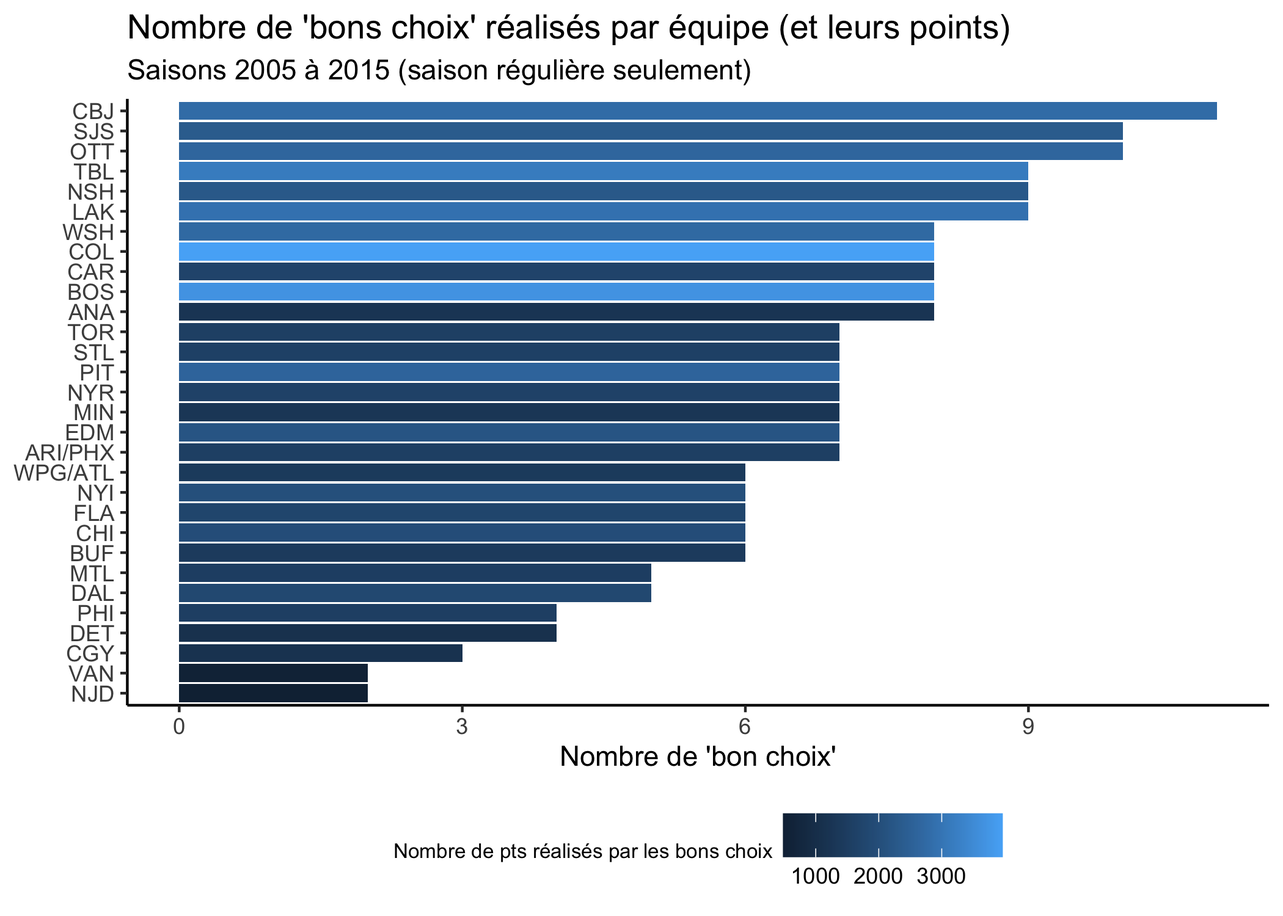
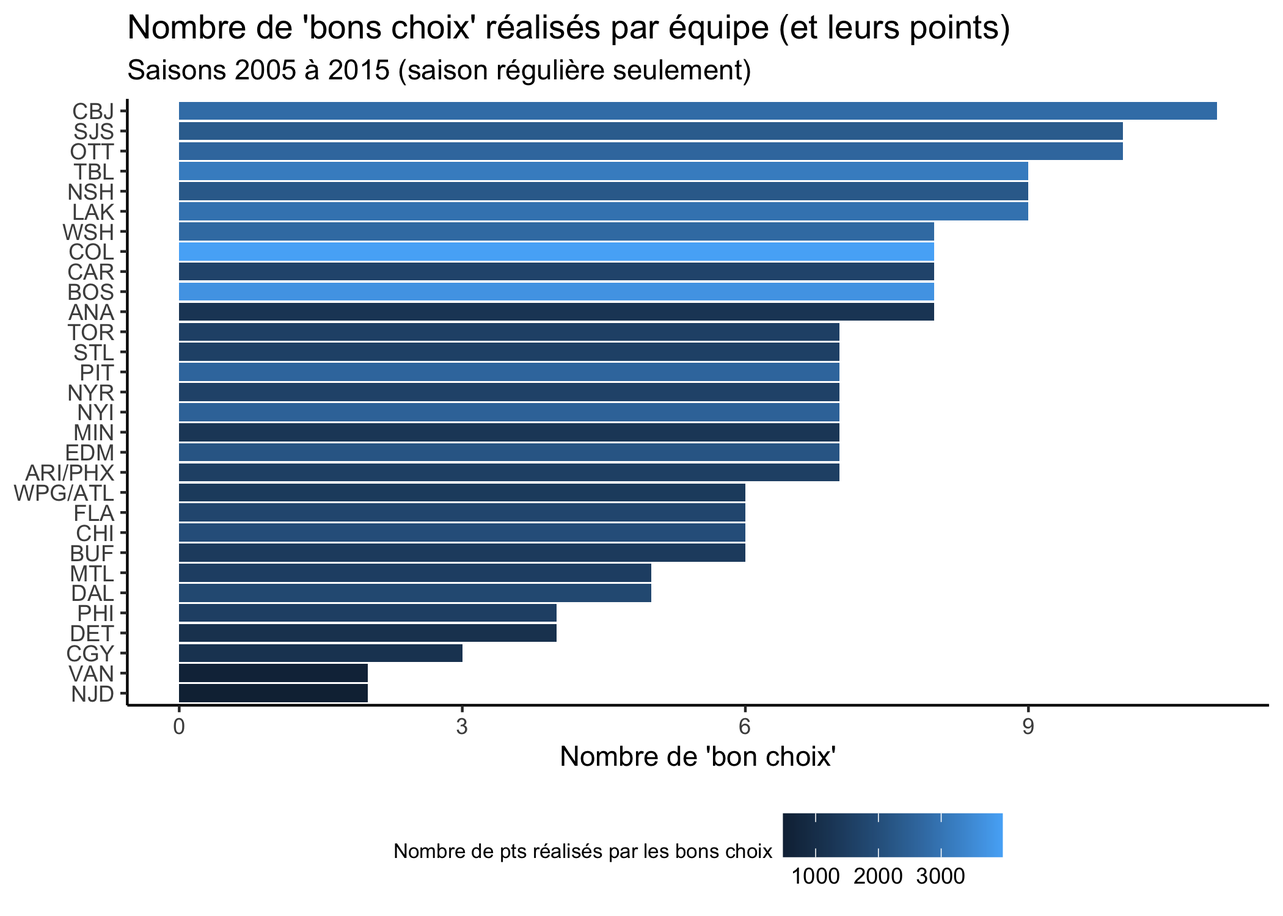
Add JP comments

Changed region(s): [[0.1238, 0.4293, 0.681, 0.552], [0.0, 0.4293, 0.0929, 0.552], [0.7119, 0.9507, 0.7429, 0.9813]]

diff --git a/content/blog/2021-02-01-tidynhl-analyse/index.fr.md b/content/blog/2021-02-01-tidynhl-analyse/index.fr.md
@@ -1,5 +1,5 @@
 ---
-title: "Repêchage de la LNH: est-ce vraiment une science inexacte?"
+title: "Repêchage de la LNH : est-ce vraiment une science inexacte?"
 slug: "tidy-nhl-draft-analysis"
 author: "Stéphane Caron"
 description: ""
@@ -61,7 +61,7 @@ dt_draft <- tidy_drafts(
 
 # Enlever les choix sans joueurs (exceptionnels)
 # Par exemple: NJ Devils perdu leur choix en 2011 (https://www.cbssports.com/nhl/news/devils-kovalchuk-penalty-reduced-get-first-round-pick-back/)
-dt_draft <- dt_draft[!is.na(player_id),]
+dt_draft <- dt_draft[!is.na(player_id)]
 
 # On se crée une fonction pour fusionner les équipes déménagées (ou renommées)
 # Nettoyage de données
@@ -75,7 +75,7 @@ merge_moved_teams <- function(dt) {
 }
 
 # Fusionner les équipes déménagés
-dt_draft <- merge_moved_teams(dt_draft)
+merge_moved_teams(dt_draft)
 
 # Afficher un extrait des données
 dt_draft[]
@@ -102,19 +102,18 @@ Afin d'avoir plus d'informations sur les joueurs, nous allons également importe
 ```r
 # Obtenir les metadonnées sur les joueurs
 dt_meta_player <- tidy_players_meta(
-  players_id = unique(dt_draft$player_id), 
+  players_id = dt_draft$player_id, 
   keep_id = TRUE
 )
 
-# Fusionner les équipes déménagés
-dt_meta_player <- merge_moved_teams(dt_meta_player)
+# Fusionner les équipes déménagées
+merge_moved_teams(dt_meta_player)
 
-dt_all <- merge(
-  x = dt_draft,
-  y = dt_meta_player[, c("player_id", "player_position_type")],
-  by = c("player_id"),
-  all.x = TRUE
-)
+cols <- c("player_id", "player_position_type")
+dt_draft[dt_meta_player, 
+         (cols) := mget(cols), 
+         on = .(player_id)]
+
 
 # Afficher un extrait des métadonnées
 dt_meta_player[]
@@ -141,14 +140,14 @@ Nous allons ensuite importer les statstiques individuelles de ces joueurs repêc
 ```r
 # Obtenir les données de statistiques individuelles des joueurs
 dt_skaters_stats <- tidy_skaters_stats(
-  players_id = unique(dt_all[player_position_type %in% c("F", "D")]$player_id),
+  players_id = dt_draft[player_position_type %in% c("F", "D"), player_id],
   playoffs = FALSE,
   keep_id = TRUE
 )
 
 # Obtenir les données de statistiques individuelles des joueurs
 dt_goalies_stats <- tidy_goalies_stats(
-  players_id = unique(dt_all[player_position_type == "G"]$player_id),
+  players_id = dt_draft[player_position_type == "G", player_id],
   playoffs = FALSE,
   keep_id = TRUE
 )
@@ -169,11 +168,11 @@ dt_stats[]
 ##    4:   8470996   Danny Syvret  20082009      2008-09     regular       4               PHI            2            0              0             0               -1          0  18.850000            27          0          0            0              1           1               0                 0                0     18.850000               0                 0                0      0.000000               0                 0                0      0.000000           NA             NA          NA            NA          NA        NA              NA                 NA                 NA             NA         NA         NA                    NA                    NA                NA                    NA                    NA                NA                    NA                    NA                NA
 ##    5:   8470996   Danny Syvret  20092010      2009-10     regular       4               PHI           21            2              2             4                1         12 262.050000           357          0          0           14             20           6               2                 2                4    257.516667               0                 0                0      2.583333               0                 0                0      1.950000           NA             NA          NA            NA          NA        NA              NA                 NA                 NA             NA         NA         NA                    NA                    NA                NA                    NA                    NA                NA                    NA                    NA                NA
 ##   ---                                                                                                                                                                                                                                                                                                                                                                                                                                                                                                                                                                                                                                                                                                                                                                                                                                    
-## 6701:   8478492  Ilya Samsonov  20202021      2020-21     regular      15               WSH           NA           NA             NA            NA               NA         NA         NA            NA         NA         NA           NA             NA          NA              NA                NA               NA            NA              NA                NA               NA            NA              NA                NA               NA            NA            2              2           1             0           0         1               0                 53                  7      0.8679245   3.360000   125.0000                    43                     6         0.8604651                     8                     1         0.8750000                     2                     0                 1
-## 6702:   8478499      Adin Hill  20172018      2017-18     regular      53               ARI           NA           NA             NA            NA               NA         NA         NA            NA         NA         NA           NA             NA          NA              NA                NA               NA            NA              NA                NA               NA            NA              NA                NA               NA            NA            4              4           1             3           0         0               0                129                 14      0.8914729   3.489097   240.7500                   118                    12         0.8983051                     9                     2         0.7777778                     2                     0                 1
-## 6703:   8478499      Adin Hill  20182019      2018-19     regular      53               ARI           NA           NA             NA            NA               NA         NA         NA            NA         NA         NA           NA             NA          NA              NA                NA               NA            NA              NA                NA               NA            NA              NA                NA               NA            NA           13             11           7             5           0         0               1                322                 32      0.9006211   2.757234   696.3500                   271                    27         0.9003690                    41                     5         0.8780488                    10                     0                 1
-## 6704:   8478499      Adin Hill  20192020      2019-20     regular      53               ARI           NA           NA             NA            NA               NA         NA         NA            NA         NA         NA           NA             NA          NA              NA                NA               NA            NA              NA                NA               NA            NA              NA                NA               NA            NA           13              9           2             4           0         3               0                343                 28      0.9183673   2.621859   640.7667                   284                    19         0.9330986                    45                     9         0.8000000                    14                     0                 1
-## 6705:   8478916   Joey Daccord  20182019      2018-19     regular       9               OTT           NA           NA             NA            NA               NA         NA         NA            NA         NA         NA           NA             NA          NA              NA                NA               NA            NA              NA                NA               NA            NA              NA                NA               NA            NA            1              1           0             1           0         0               0                 40                  5      0.8750000   5.000000    60.0000                    35                     3         0.9142857                     3                     2         0.3333333                     2                     0                 1
+## 6717:   8478492  Ilya Samsonov  20202021      2020-21     regular      15               WSH           NA           NA             NA            NA               NA         NA         NA            NA         NA         NA           NA             NA          NA              NA                NA               NA            NA              NA                NA               NA            NA              NA                NA               NA            NA            2              2           1             0           0         1               0                 53                  7      0.8679245   3.360000   125.0000                    43                     6         0.8604651                     8                     1         0.8750000                     2                     0                 1
+## 6718:   8478499      Adin Hill  20172018      2017-18     regular      53               ARI           NA           NA             NA            NA               NA         NA         NA            NA         NA         NA           NA             NA          NA              NA                NA               NA            NA              NA                NA               NA            NA              NA                NA               NA            NA            4              4           1             3           0         0               0                129                 14      0.8914729   3.489097   240.7500                   118                    12         0.8983051                     9                     2         0.7777778                     2                     0                 1
+## 6719:   8478499      Adin Hill  20182019      2018-19     regular      53               ARI           NA           NA             NA            NA               NA         NA         NA            NA         NA         NA           NA             NA          NA              NA                NA               NA            NA              NA                NA               NA            NA              NA                NA               NA            NA           13             11           7             5           0         0               1                322                 32      0.9006211   2.757234   696.3500                   271                    27         0.9003690                    41                     5         0.8780488                    10                     0                 1
+## 6720:   8478499      Adin Hill  20192020      2019-20     regular      53               ARI           NA           NA             NA            NA               NA         NA         NA            NA         NA         NA           NA             NA          NA              NA                NA               NA            NA              NA                NA               NA            NA              NA                NA               NA            NA           13              9           2             4           0         3               0                343                 28      0.9183673   2.621859   640.7667                   284                    19         0.9330986                    45                     9         0.8000000                    14                     0                 1
+## 6721:   8478916   Joey Daccord  20182019      2018-19     regular       9               OTT           NA           NA             NA            NA               NA         NA         NA            NA         NA         NA           NA             NA          NA              NA                NA               NA            NA              NA                NA               NA            NA              NA                NA               NA            NA            1              1           0             1           0         0               0                 40                  5      0.8750000   5.000000    60.0000                    35                     3         0.9142857                     3                     2         0.3333333                     2                     0                 1
 ```
 
 Finalement, nous allons appliquer quelques transformations et manipulations à ces
@@ -196,10 +195,12 @@ aggregate_stats <- function(dt, old_by_names, new_by_names) {
   dt_aggregated[, player_games := ifelse(is.na(skater_games), 0, skater_games) + ifelse(is.na(goalie_games), 0, goalie_games)]
   setnames(dt_aggregated, old_by_names, new_by_names)
   
+  dt_aggregated[]
+  
 }
 
 # Fusionner les équipes déménagés
-dt_stats <- merge_moved_teams(dt_stats)
+merge_moved_teams(dt_stats)
 
 # Aggrégé les données par équipe jouée et joindre les données
 dt_stats_aggregated <- aggregate_stats(
@@ -208,23 +209,22 @@ dt_stats_aggregated <- aggregate_stats(
   new_by_names = c("player_id", "team_played")
 )
 
-dt_all <- merge(
-  x = dt_all,
-  y = dt_stats_aggregated,
-  by = c("player_id"),
-  all.x = TRUE
-)
+dt_all <- merge(dt_draft,
+                dt_stats_aggregated,
+                by = "player_id", 
+                all.x = TRUE)
+
 setnames(dt_all, old = "team_abbreviation", new = "team_drafted")
 
 # Afficher un extrait des données pour un joueur
-dt_all[player_name == "P.K. Subban",]
+dt_all[player_name == "P.K. Subban"]
 ```
 
 ```
 ##    player_id draft_year draft_round draft_pick draft_overall team_id team_drafted player_name amateur_league_name amateur_team_name player_position_type team_played skater_points skater_games goalie_games goalie_wins player_games
 ## 1:   8474056       2007           2         13            43       8          MTL P.K. Subban                 OHL        Belleville                    D         MTL           278          434            0           0          434
 ## 2:   8474056       2007           2         13            43       8          MTL P.K. Subban                 OHL        Belleville                    D         NSH           130          211            0           0          211
-## 3:   8474056       2007           2         13            43       8          MTL P.K. Subban                 OHL        Belleville                    D         NJD            21           77            0           0           77
+## 3:   8474056       2007           2         13            43       8          MTL P.K. Subban                 OHL        Belleville                    D         NJD            22           78            0           0           78
 ```
 
 Maintenant que nous avons structuré les données dans un format étant plus facile à
@@ -264,12 +264,12 @@ head(dt_per_team[])
 
 ```
 ##    team_drafted nb_picks nb_1st_round_picks nb_games_played nb_points nb_wins
-## 1:          NYI       87                 14           10804      4785     128
-## 2:          LAK       86                 10           12863      4834     511
-## 3:          SJS       78                  9            9672      3754      65
-## 4:          CBJ       84                 13           12250      4542     302
-## 5:          EDM       80                 13           10502      5129       0
-## 6:          NYR       71                  8            8072      3193      15
+## 1:          NYI       87                 14           10864      4808     129
+## 2:          LAK       86                 10           12913      4856     513
+## 3:          SJS       78                  9            9708      3770      65
+## 4:          CBJ       84                 13           12294      4564     303
+## 5:          EDM       80                 13           10545      5150       0
+## 6:          NYR       71                  8            8112      3204      15
 ```
 
 Maintenant que nous avons les données aggrégées par équipe, nous pouvons
@@ -360,7 +360,9 @@ dt_stats_position <- aggregate_stats(
   old_by_names = c("team_drafted", "player_position_type"),
   new_by_names = c("team_drafted", "player_position_type")
 )
-dt_stats_position <- merge(dt_stats_position, dt_per_team[, c("team_drafted", "nb_points")], by = "team_drafted", all.x = TRUE)
+
+cols <- c("team_drafted", "nb_points")
+dt_stats_position[dt_per_team, (cols) := mget(cols), on = .(team_drafted)]
 
 dt_stats_position[player_position_type %in% c("F", "D"),] %>%
   ggplot(
@@ -388,7 +390,7 @@ Dans le graphique ci-dessus, les équipes sont ordonnées selon le nombre de poi
 
 
 ```r
-unique(dt_all[team_drafted == "ANA" & player_position_type == "D",][order(-skater_points)]$player_name)[1:5]
+unique(dt_all[team_drafted == "ANA" & player_position_type == "D"][order(-skater_points), player_name])[1:5]
 ```
 
 ```
@@ -396,7 +398,7 @@ unique(dt_all[team_drafted == "ANA" & player_position_type == "D",][order(-skate
 ```
 
 ```r
-unique(dt_all[team_drafted == "NSH" & player_position_type == "D",][order(-skater_points)]$player_name)[1:5]
+unique(dt_all[team_drafted == "NSH" & player_position_type == "D"][order(-skater_points), player_name])[1:5]
 ```
 
 ```
@@ -415,7 +417,7 @@ aggregate_stats(
   dt = dt_all,
   old_by_names = c("team_drafted", "player_position_type"),
   new_by_names = c("team_drafted", "player_position_type")
-)[player_position_type == "G",] %>%
+)[player_position_type == "G"] %>%
   ggplot(
     mapping = aes(
       x = goalie_wins,
@@ -441,7 +443,7 @@ Pour ceux qui pensaient que Carey Price permettrait au Canadiens d'être au prem
 
 
 ```r
-unique(dt_all[team_drafted == "WSH" & player_position_type == "G",][order(-goalie_wins)]$player_name)[1:5]
+unique(dt_all[team_drafted == "WSH" & player_position_type == "G"][order(-goalie_wins), player_name])[1:5]
 ```
 
 ```
@@ -528,7 +530,7 @@ define_good_choice <- function(dt, player_window, player_min_pts, goalie_min_win
   
   }
   
-  return(dt)
+  dt[]
   
 }
 ```
@@ -552,23 +554,23 @@ dt_good_picks <- define_good_choice(
 )
 
 # Apercu des 30 premiers choix du repechage de 2005
-dt_good_picks[draft_year == 2005,][order(draft_overall),][1:30, c("draft_year", "draft_overall", "team_drafted", "player_name", "player_position_type", "skater_points", "goalie_wins", "good_pick")]
+dt_good_picks[draft_year == 2005][order(draft_overall)][1:30, .(draft_year, draft_overall, team_drafted, player_name, player_position_type, skater_points, goalie_wins, good_pick)]
 ```
 
 ```
 ##     draft_year draft_overall team_drafted      player_name player_position_type skater_points goalie_wins good_pick
-##  1:       2005             1          PIT    Sidney Crosby                    F          1272           0      TRUE
-##  2:       2005             2          ANA       Bobby Ryan                    F           562           0     FALSE
+##  1:       2005             1          PIT    Sidney Crosby                    F          1275           0      TRUE
+##  2:       2005             2          ANA       Bobby Ryan                    F           563           0     FALSE
 ##  3:       2005             3          CAR     Jack Johnson                    D           302           0      TRUE
 ##  4:       2005             4          MIN   Benoit Pouliot                    F           263           0     FALSE
-##  5:       2005             5          MTL      Carey Price                    G             0         352      TRUE
+##  5:       2005             5          MTL      Carey Price                    G             0         353      TRUE
 ##  6:       2005             6          CBJ    Gilbert Brule                    F            95           0     FALSE
 ##  7:       2005             7          CHI      Jack Skille                    F            96           0     FALSE
 ##  8:       2005             8          SJS  Devin Setoguchi                    F           261           0     FALSE
 ##  9:       2005             9          OTT        Brian Lee                    D            36           0     FALSE
 ## 10:       2005            10          VAN      Luc Bourdon                    D             2           0     FALSE
-## 11:       2005            11          LAK     Anze Kopitar                    F           965           0      TRUE
-## 12:       2005            12          NYR       Marc Staal                    D           191           0     FALSE
+## 11:       2005            11          LAK     Anze Kopitar                    F           968           0      TRUE
+## 12:       2005            12          NYR       Marc Staal                    D           192           0     FALSE
 ## 13:       2005            13          BUF   Marek Zagrapan                    F             0           0     FALSE
 ## 14:       2005            14          WSH    Sasha Pokulok                    D             0           0     FALSE
 ## 15:       2005            15          NYI     Ryan O'Marra                    F             7           0     FALSE
@@ -580,8 +582,8 @@ dt_good_picks[draft_year == 2005,][order(draft_overall),][1:30, c("draft_year", 
 ## 21:       2005            21          TOR      Tuukka Rask                    G             0         297     FALSE
 ## 22:       2005            22          BOS     Matt Lashoff                    D            16           0     FALSE
 ## 23:       2005            23          NJD  Niclas Bergfors                    F            83           0     FALSE
-## 24:       2005            24          STL       T.J. Oshie                    F           574           0     FALSE
-## 25:       2005            25          EDM  Andrew Cogliano                    F           425           0     FALSE
+## 24:       2005            24          STL       T.J. Oshie                    F           575           0     FALSE
+## 25:       2005            25          EDM  Andrew Cogliano                    F           426           0     FALSE
 ## 26:       2005            26          CGY      Matt Pelech                    F             4           0     FALSE
 ## 27:       2005            27          WSH       Joe Finley                    D             1           0     FALSE
 ## 28:       2005            28          DAL    Matt Niskanen                    D           356           0      TRUE
@@ -590,7 +592,7 @@ dt_good_picks[draft_year == 2005,][order(draft_overall),][1:30, c("draft_year", 
 ##     draft_year draft_overall team_drafted      player_name player_position_type skater_points goalie_wins good_pick
 ```
 
-À partir de cet apperçu, on peut voir que notre approche n'est pas parfaite, mais nous donne quand même une bonne idée de quels joueurs ont été de "bons choix". Sidney Crosby apparait comme un "bon choix" (fiouuu). On pourrait débattre que Bobby Ryan est un "bon choix", mais Anze Kopitar ne serait pas d'accord 😉. Si vous vous demandez pour TJ Oshie, il a été doublé par Paul Stastny en 2ème ronde. Est-ce que je considère Paul Stastny meilleur que TJ Oshie, pas nécéssairement, mais forcé d'admettre que le premier a fait près de 200 points de plus que le second.
+À partir de cet apperçu, on peut voir que notre approche n'est pas parfaite, mais nous donne quand même une bonne idée de quels joueurs ont été de "bons choix". Sidney Crosby apparait comme un "bon choix" (fiouuu). On pourrait débattre que Bobby Ryan est un "bon choix", mais Anze Kopitar ne serait pas d'accord 😉. Si vous vous demandez pour TJ Oshie, il a été doublé par Paul Stastny en 2ème ronde. Est-ce que je considère Paul Stastny meilleur que TJ Oshie, pas nécéssairement, mais force est d'admettre que le premier a fait près de 200 points de plus que le second.
 
 Maintenant, voyons voir quelles équipes ont réalisé le plus grand nombre de "bons choix" selon l'approche que nous proposons. Puisque certains "bons choix" pourraient être considérés meilleurs que d'autres "bons choix", j'ai pris le soin d'ajouter le nombre de points réalisés par ces joueurs dans le graphique ci-dessous.
 
@@ -622,22 +624,22 @@ On peut voir que certaines équipes ont eu plus de flair que d'autres. Les Blue 
 columns_show <- c("draft_year", "draft_overall", "player_name", "skater_points", "goalie_wins")
 
 # Bons choix des Blue Jackets
-dt_good_picks[good_pick == TRUE & team_drafted == "CBJ", (columns_show), with = F]
+dt_good_picks[good_pick == TRUE & team_drafted == "CBJ", .SD, .SDcols = columns_show]
 ```
 
 ```
 ##     draft_year draft_overall        player_name skater_points goalie_wins
-##  1:       2005            67       Kris Russell           237           0
+##  1:       2005            67       Kris Russell           238           0
 ##  2:       2006           189      Derek Dorsett           127           0
 ##  3:       2006            69        Steve Mason             0         205
 ##  4:       2007             7      Jakub Voracek           753           0
 ##  5:       2008           127       Matt Calvert           201           0
-##  6:       2008           157       Cam Atkinson           374           0
+##  6:       2008           157       Cam Atkinson           381           0
 ##  7:       2009            21         John Moore           115           0
 ##  8:       2010             4      Ryan Johansen           446           0
-##  9:       2013            89 Oliver Bjorkstrand           144           0
-## 10:       2013            14      Alex Wennberg           205           0
-## 11:       2015             8      Zach Werenski           173           0
+##  9:       2013            89 Oliver Bjorkstrand           146           0
+## 10:       2013            14      Alex Wennberg           208           0
+## 11:       2015             8      Zach Werenski           174           0
 ```
 
 Il y a quand même quelques bons choix. Par contre, certains de ces joueurs ont peut-être profiter des failles de notre approche (Derek Dorsett ou John Moore par exemple). Je suis curieux de jeter un coup d'oeil à l'Avalanche du Colorado, qui ont realisé un peu moins de "bons choix".
@@ -645,19 +647,19 @@ Il y a quand même quelques bons choix. Par contre, certains de ces joueurs ont 
 
 ```r
 # Bons choix de l'Avalanche
-dt_good_picks[good_pick == TRUE & team_drafted == "COL", (columns_show), with = F]
+dt_good_picks[good_pick == TRUE & team_drafted == "COL", .SD, .SDcols = columns_show]
 ```
 
 ```
 ##    draft_year draft_overall       player_name skater_points goalie_wins
-## 1:       2005            44      Paul Stastny           756           0
+## 1:       2005            44      Paul Stastny           759           0
 ## 2:       2007            14 Kevin Shattenkirk           387           0
-## 3:       2009            33     Ryan O'Reilly           572           0
-## 4:       2009             3      Matt Duchene           638           0
-## 5:       2009            64      Tyson Barrie           357           0
+## 3:       2009            33     Ryan O'Reilly           574           0
+## 4:       2009             3      Matt Duchene           640           0
+## 5:       2009            64      Tyson Barrie           360           0
 ## 6:       2011             2 Gabriel Landeskog           485           0
-## 7:       2013             1  Nathan MacKinnon           509           0
-## 8:       2015            10    Mikko Rantanen           260           0
+## 7:       2013             1  Nathan MacKinnon           510           0
+## 8:       2015            10    Mikko Rantanen           261           0
 ```
 
 Un peu moins de "bons choix" que les Blue Jackets, mais ceux-ci semblent avoir eu un impact bien plus grand. On peut dire que l'Avalanche a su profiter de leurs hauts choix au repêchage ...
@@ -667,16 +669,16 @@ Finalement, aviez-vous réussi à deviner quels étaient les 5 "bons choix" de n
 
 ```r
 # Bons choix des Canadiens
-dt_good_picks[good_pick == TRUE & team_drafted == "MTL", (columns_show), with = F]
+dt_good_picks[good_pick == TRUE & team_drafted == "MTL", .SD, .SDcols = columns_show]
 ```
 
 ```
 ##    draft_year draft_overall       player_name skater_points goalie_wins
-## 1:       2005             5       Carey Price             0         352
+## 1:       2005             5       Carey Price             0         353
 ## 2:       2005           200  Sergei Kostitsyn           176           0
-## 3:       2007            43       P.K. Subban           429           0
-## 4:       2007            22    Max Pacioretty           565           0
-## 5:       2010           147 Brendan Gallagher           341           0
+## 3:       2007            43       P.K. Subban           430           0
+## 4:       2007            22    Max Pacioretty           567           0
+## 5:       2010           147 Brendan Gallagher           343           0
 ```
 
 Pas trop mal, mais sur 10 années de repêchages, on aurait bien aimé avoir quelques "bons choix" de plus (surtout en première ronde) ...
@@ -689,21 +691,21 @@ Pas trop mal, mais sur 10 années de repêchages, on aurait bien aimé avoir que
 
 # Conclusion {#conclusion}
 
-Pour conclure cet article, je dois vous avouez que je continu de croire que le repêchage est une science inexacte. Il est difficile de tirer des conclusions évidentes étant donné les nombreuses composantes à prendre en compte. Sans entrer trop dans les détails, il y a le nombre de choix et les positions des joueurs repêchés. Certains joueurs font moins de points, mais apportent une composante de plus à une équipe, comme le leadership ou même l'aspect défensif. Toutefois, selon mes analyses, voici les équipes que je considère comme les grands "gagnants" et "perdants" ainsi que pourquoi.
+Pour conclure cet article, je dois vous avouer que je continue de croire que le repêchage est une science inexacte. Il est difficile de tirer des conclusions évidentes étant donné les nombreuses composantes à prendre en compte. Sans entrer trop dans les détails, il y a le nombre de choix et les positions des joueurs repêchés. Certains joueurs font moins de points, mais apportent une composante de plus à une équipe, comme le leadership ou même l'aspect défensif. Toutefois, selon mes analyses, voici les équipes que je considère comme les grands "gagnants" et "perdants" ainsi que pourquoi.
 
 ## Les grands "gagnants" 👍
 
-- **Avalanche du Colorodo:** On peut voir leurs "bon choix" plus haut. Ils ont bien saisis leur chance sur leurs choix de 1ère ronde, considérant qu'ils en ont eu que 9 alors que la moyenne de la ligue se situe à 11.
-- **Bruins de Boston**: Arrivant au 26ème rang pour le nombre de choix, ils sont pourtant au 6ème rang pour les points récoltés par les joueurs repêchés. Ils sont également dans le premier tier pour le nombre de "bons choix".
-- **Penguins de Pittsburg**: Arrivent au dernier rang dans la ligue pour le nombre de choix au total (avec 66 choix), mais ils ont fait une bonne utilisation de leurs choix. On peut les voir assez haut pour les points récoltés (12ème rang) et pour les victores des gardiens (9ème rang).
+- **Avalanche du Colorodo:** On peut voir leurs "bons choix" plus haut. Ils ont bien saisi leurs chances avec leurs choix de 1ère ronde, considérant qu'ils n'en ont eu que 9 alors que la moyenne de la ligue se situe à 11.
+- **Bruins de Boston**: Arrivant au 26ème rang pour le nombre de choix, ils sont pourtant au 6ème rang pour les points récoltés par les joueurs repêchés. Ils sont également dans le premier tiers pour le nombre de "bons choix".
+- **Penguins de Pittsburg**: Ils arrivent au dernier rang dans la ligue pour le nombre de choix au total (avec 66 choix), mais ils ont fait une bonne utilisation de leurs choix. On peut les voir assez haut pour les points récoltés (12ème rang) et pour les victores des gardiens (9ème rang).
 - **Kings de Los Angeles**: Certes, ils ont eu beaucoup de choix au total (86), mais ils ont su répondre à l'appel dans la majorité des facettes: matchs (1er rang), points (2ème rang) et victoires des gardiens (2ème rang).
 
 ### Les grands "perdants" 👎
 
 - **Sabres de Buffalo**: Ils sont au 5ème rang pour le nombre de choix au total, (dont 13 en 1ère ronde), mais ils arrivent relativement loin dans le classement pour le nombre de points récoltés (21ème rang) ou pour les victoires des gardiens (19ème rang). Ils sont également en bas de peloton pour le nombre de "bons choix". 
-- **Jets de Winnipeg (et Atlanta)**: Ils sont au-dessus de la moyenne pour le nombre de choix total (83) et nombre de choix de première ronde (12). Ils se retrouvent en bas de classement pour la majorité des métriques: matchs (26ème rang), points (25ème rang). Seul point positif, les gardiens.
+- **Jets de Winnipeg (et Atlanta)**: Ils sont au-dessus de la moyenne pour le nombre de choix total (83) et nombre de choix de première ronde (12). Ils se retrouvent en bas de classement pour la majorité des métriques: matchs (26ème rang), points (24ème rang). Seul point positif, les gardiens.
 - **Canucks de Vancouver**: Même s'ils ont eu peu de choix au total (68), ils n'ont pas su tirer leur épingle du jeu, et ce, dans aucune catégorie. Avec 12 choix de 1ère ronde, versus une moyenne de 11 dans la ligue, on aurait pu s'attendre à de meilleures performances. Le nombre de matchs joués par leurs joueurs repêchés est catastrophique ...
-- **Coyotes de l'Arizona (et Phoenix)**: On ne peut pas dire que leurs performances au repêchage est  "désastreuse", mais étant l'équipe avec le plus de choix de premières rondes (16), je me serais attendu à mieux.
+- **Coyotes de l'Arizona (et Phoenix)**: On ne peut pas dire que leur performance est "désastreuse", mais étant l'équipe avec le plus de choix de premières rondes (16), je me serais attendu à mieux.
 
 
 Mention honorable pour les "mal-aimés" Oilers d'Edmonton. Ils ont certainement eu beaucoup de choix "faciles", mais ils arrivent quand même au premier rang pour le nombre de points.
